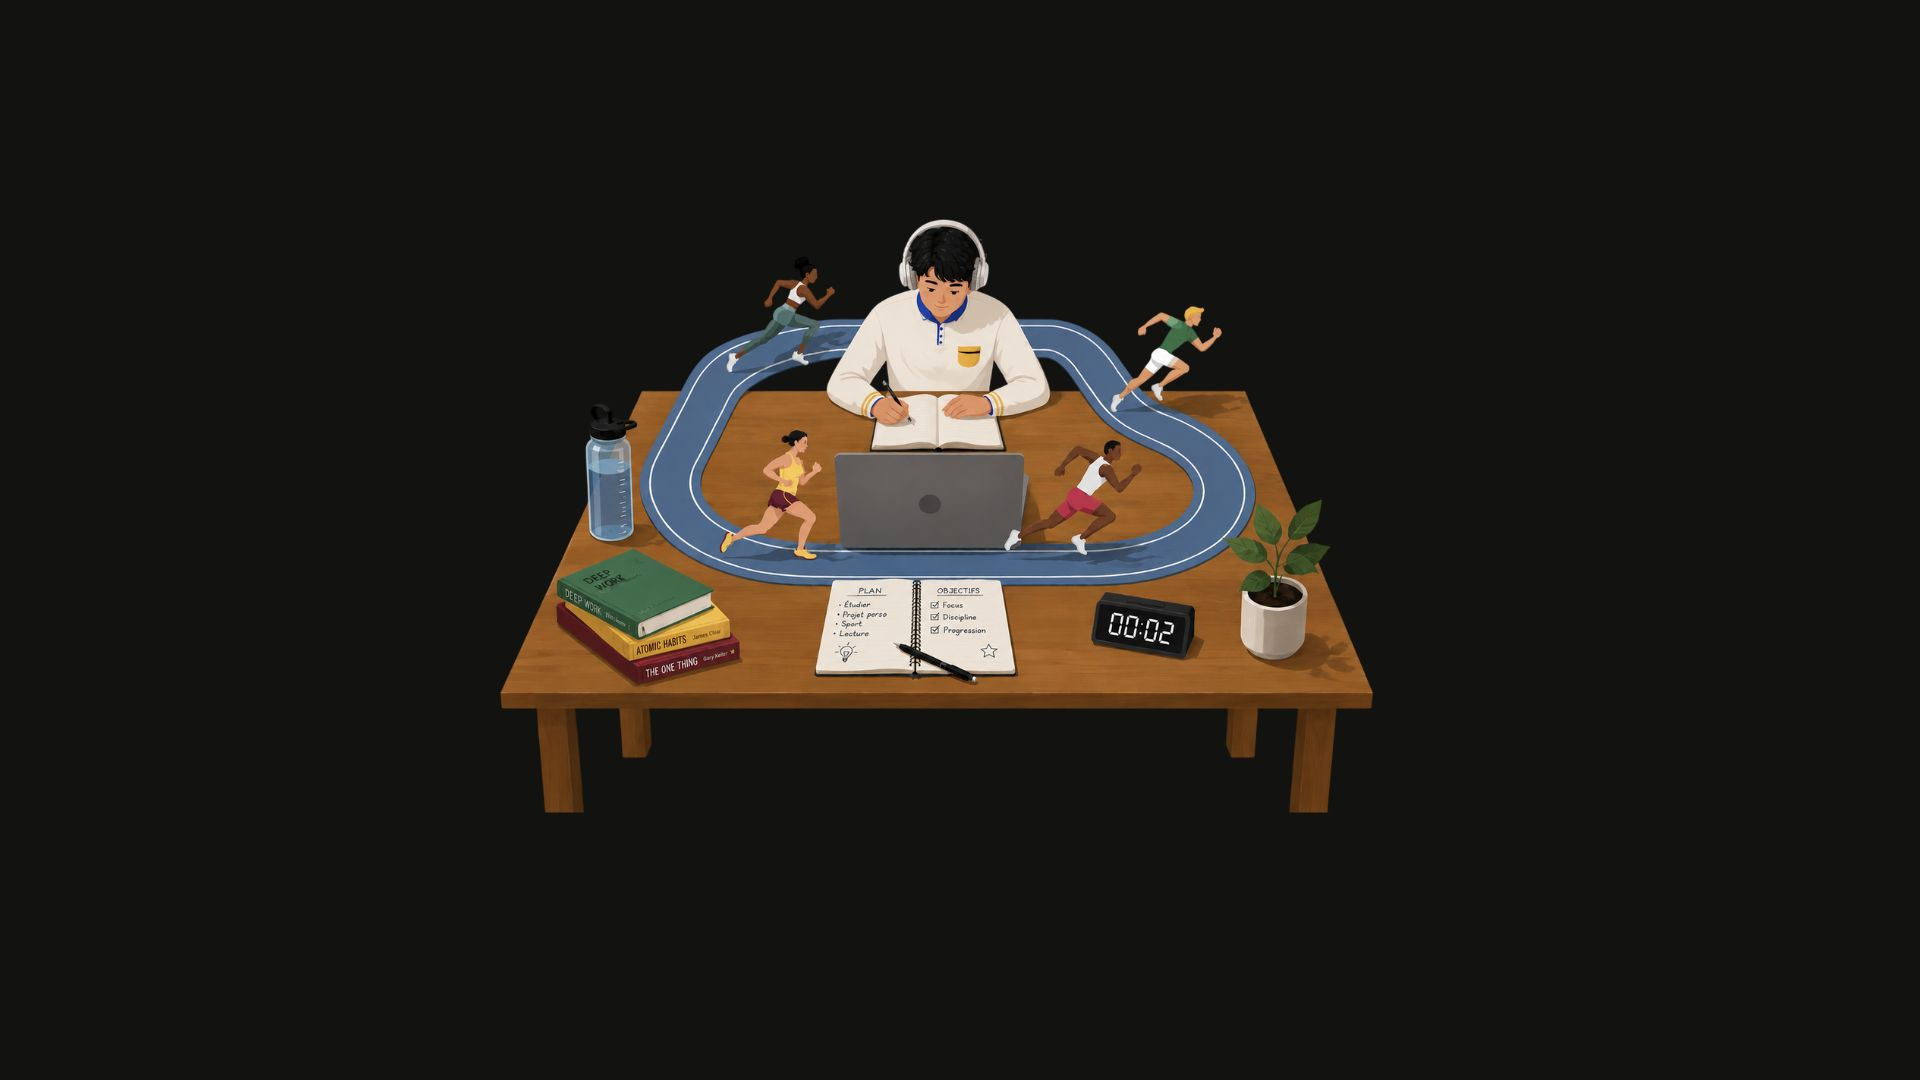
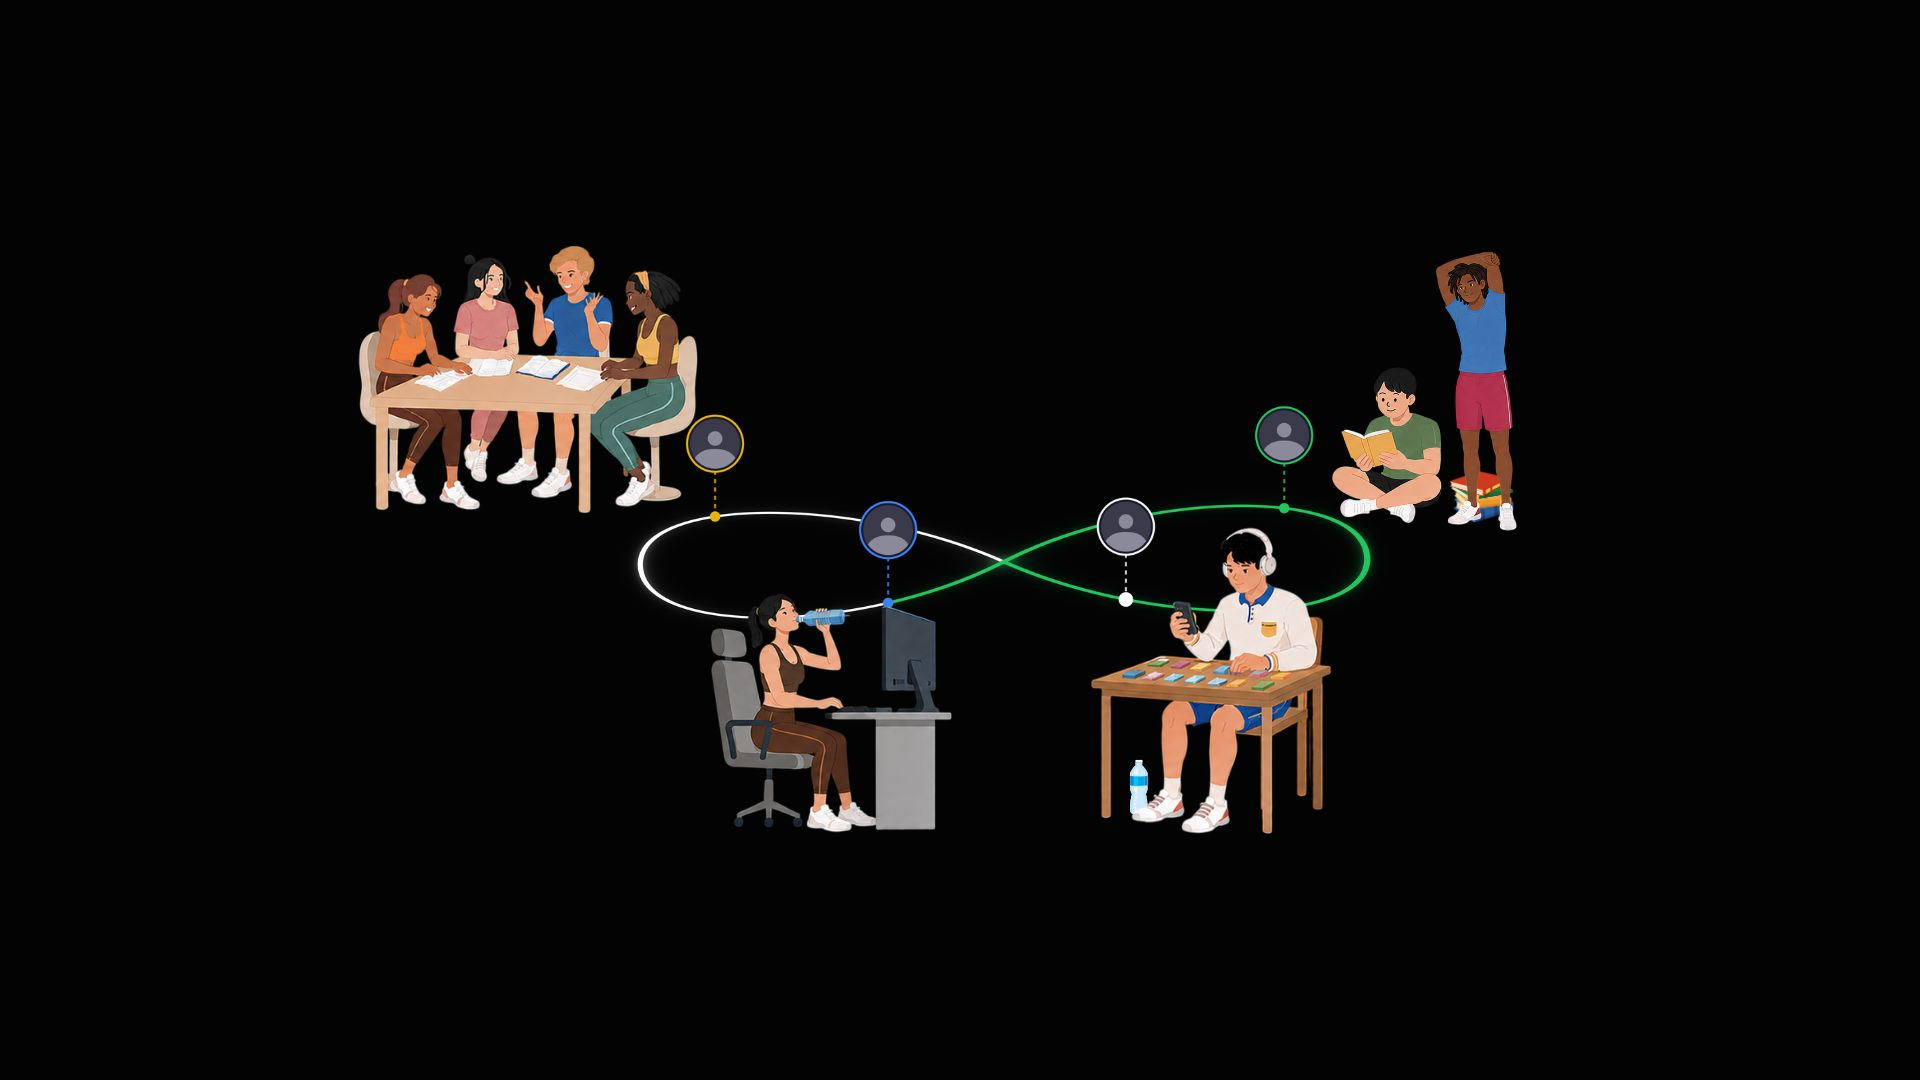
refonte page d'acceuil

Changed region(s): [[0.1875, 0.1833, 0.8125, 0.7944]]

diff --git a/src/infinitloop.jsx b/src/infinitloop.jsx
@@ -24,7 +24,7 @@ function applyGroupTransform(x, y) {
   return { x: sx + CX, y: sy + CY };
 }
 
-const DURATION = 22000; // durée d'un tour complet (en millisecondes) - augmenté pour réduire la vitesse
+const DURATION = 35000; // durée d'un tour complet (en millisecondes) - augmenté pour réduire la vitesse
 const PERP_LENGTH = 70; // longueur de la ligne perpendiculaire
 const AVATAR_RADIUS = 24;
 
@@ -38,12 +38,14 @@ const POINTS = [
   { id: "p3", color: "#eab308", phase: 0.75, isPlayer: false },
 ];
 
-export default function InfiniteLoopAnimation({ enMarche, photoProfil, dureeTotale = 1500, phase = 'travail', resetKey = 0, secondesRestantes = 0 }) {
+export default function InfiniteLoopAnimation({ enMarche, photoProfil, dureeTotale = 1500, phase = 'travail', resetKey = 0, secondesRestantes = 0, variante = 'pomodoro', pointsPersonnalises }) {
   const pathRef = useRef(null);
   const [animState, setAnimState] = useState({ pointsState: null, progress: 0, totalLength: 0 });
   const accumulatedTimeRef = useRef(0);
   const lastTimestampRef = useRef(null);
   const enMarcheRef = useRef(enMarche);
+  
+  const POINTS_ACTIFS = pointsPersonnalises || POINTS;
 
   useEffect(() => {
     enMarcheRef.current = enMarche;
@@ -71,7 +73,7 @@ export default function InfiniteLoopAnimation({ enMarche, photoProfil, dureeTota
       const safeDuree = dureeTotale > 0 ? dureeTotale : 1;
       const fillProgress = Math.min(accumulatedTimeRef.current / (safeDuree * 1000), 1);
 
-      const results = POINTS.map((cfg) => {
+      const results = POINTS_ACTIFS.map((cfg) => {
         const pointProgress = (((accumulatedTimeRef.current / DURATION) + cfg.phase) % 1 + 1) % 1;
         const dist = pointProgress * totalLength;
 
@@ -92,6 +94,7 @@ export default function InfiniteLoopAnimation({ enMarche, photoProfil, dureeTota
           id: cfg.id,
           color: cfg.color,
           isPlayer: cfg.isPlayer,
+          avatar: cfg.avatar,
           point: pointScreen,
           perpEnd: perpEndScreen,
         };
@@ -163,37 +166,41 @@ export default function InfiniteLoopAnimation({ enMarche, photoProfil, dureeTota
           )}
         </g>
 
-        {/* Textes intégrés aux boucles */}
-        {/* Boucle gauche : Phase (Travail / Pause) */}
-        <foreignObject x="125" y="170" width="200" height="60">
-          <div style={{ display: 'flex', alignItems: 'center', justifyContent: 'center', gap: '8px', width: '100%', height: '100%', color: '#FFFFFF', fontSize: '24px', fontFamily: "'Space Grotesk', sans-serif", fontWeight: 'bold', opacity: 0.9 }}>
-            {phase === 'travail' ? (
-              <>
-                <svg xmlns="http://www.w3.org/2000/svg" width="28" height="28" fill="currentColor" viewBox="0 0 256 256">
-                  <path d="M152,88a32,32,0,1,0-32-32A32,32,0,0,0,152,88Zm0-48a16,16,0,1,1-16,16A16,16,0,0,1,152,40Zm67.31,100.68c-.61.28-7.49,3.28-19.67,3.28-13.85,0-34.55-3.88-60.69-20a169.31,169.31,0,0,1-15.41,32.34,104.29,104.29,0,0,1,31.31,15.81C173.92,186.65,184,207.35,184,232a8,8,0,0,1-16,0c0-41.7-34.69-56.71-54.14-61.85-.55.7-1.12,1.41-1.69,2.1-19.64,23.8-44.25,36.18-71.63,36.18A92.29,92.29,0,0,1,31.2,208,8,8,0,0,1,32.8,192c25.92,2.58,48.47-7.49,67-30,12.49-15.14,21-33.61,25.25-47C86.13,92.35,61.27,111.63,61,111.84A8,8,0,1,1,51,99.36c1.5-1.2,37.22-29,89.51,6.57,45.47,30.91,71.93,20.31,72.18,20.19a8,8,0,1,1,6.63,14.56Z"></path>
-                </svg>
-                Travail
-              </>
-            ) : (
-              '☕ Pause'
-            )}
-          </div>
-        </foreignObject>
+        {/* Textes intégrés aux boucles (uniquement pour le mode Pomodoro) */}
+        {variante === 'pomodoro' && (
+          <>
+            {/* Boucle gauche : Phase (Travail / Pause) */}
+            <foreignObject x="125" y="170" width="200" height="60">
+              <div style={{ display: 'flex', alignItems: 'center', justifyContent: 'center', gap: '8px', width: '100%', height: '100%', color: '#FFFFFF', fontSize: '24px', fontFamily: "'Space Grotesk', sans-serif", fontWeight: 'bold', opacity: 0.9 }}>
+                {phase === 'travail' ? (
+                  <>
+                    <svg xmlns="http://www.w3.org/2000/svg" width="28" height="28" fill="currentColor" viewBox="0 0 256 256">
+                      <path d="M152,88a32,32,0,1,0-32-32A32,32,0,0,0,152,88Zm0-48a16,16,0,1,1-16,16A16,16,0,0,1,152,40Zm67.31,100.68c-.61.28-7.49,3.28-19.67,3.28-13.85,0-34.55-3.88-60.69-20a169.31,169.31,0,0,1-15.41,32.34,104.29,104.29,0,0,1,31.31,15.81C173.92,186.65,184,207.35,184,232a8,8,0,0,1-16,0c0-41.7-34.69-56.71-54.14-61.85-.55.7-1.12,1.41-1.69,2.1-19.64,23.8-44.25,36.18-71.63,36.18A92.29,92.29,0,0,1,31.2,208,8,8,0,0,1,32.8,192c25.92,2.58,48.47-7.49,67-30,12.49-15.14,21-33.61,25.25-47C86.13,92.35,61.27,111.63,61,111.84A8,8,0,1,1,51,99.36c1.5-1.2,37.22-29,89.51,6.57,45.47,30.91,71.93,20.31,72.18,20.19a8,8,0,1,1,6.63,14.56Z"></path>
+                    </svg>
+                    Travail
+                  </>
+                ) : (
+                  '☕ Pause'
+                )}
+              </div>
+            </foreignObject>
 
-        {/* Boucle droite : Chronomètre (secondesRestantes) */}
-        <text 
-          x="575" 
-          y="200" 
-          fill="#FFFFFF" 
-          fontSize="36" 
-          fontFamily="'Space Grotesk', sans-serif" 
-          fontWeight="bold" 
-          textAnchor="middle" 
-          dominantBaseline="middle"
-          opacity="0.9"
-        >
-          {Math.floor(secondesRestantes / 60).toString().padStart(2, '0')}:{(secondesRestantes % 60).toString().padStart(2, '0')}
-        </text>
+            {/* Boucle droite : Chronomètre (secondesRestantes) */}
+            <text 
+              x="575" 
+              y="200" 
+              fill="#FFFFFF" 
+              fontSize="36" 
+              fontFamily="'Space Grotesk', sans-serif" 
+              fontWeight="bold" 
+              textAnchor="middle" 
+              dominantBaseline="middle"
+              opacity="0.9"
+            >
+              {Math.floor(secondesRestantes / 60).toString().padStart(2, '0')}:{(secondesRestantes % 60).toString().padStart(2, '0')}
+            </text>
+          </>
+        )}
 
         {/* Points, lignes perpendiculaires et avatars — dessinés hors du <g>
             car les coordonnées écran sont déjà calculées via applyGroupTransform */}
@@ -231,16 +238,16 @@ export default function InfiniteLoopAnimation({ enMarche, photoProfil, dureeTota
                 />
                 <g clipPath="url(#avatarClip)">
                   <circle r={AVATAR_RADIUS} fill="#3a3a4a" />
-                  {pt.isPlayer && photoProfil?.dataUrl ? (
+                  {((pt.isPlayer && photoProfil?.dataUrl) || pt.avatar) ? (
                     <foreignObject x={-AVATAR_RADIUS} y={-AVATAR_RADIUS} width={AVATAR_RADIUS * 2} height={AVATAR_RADIUS * 2}>
                       <img
-                        src={photoProfil.dataUrl}
+                        src={pt.avatar ? pt.avatar : photoProfil.dataUrl}
                         alt="Avatar"
                         style={{
                           width: '100%',
                           height: '100%',
                           objectFit: 'cover',
-                          objectPosition: `${photoProfil.position?.x ?? 50}% ${photoProfil.position?.y ?? 50}%`,
+                          objectPosition: pt.avatar ? 'center' : `${photoProfil.position?.x ?? 50}% ${photoProfil.position?.y ?? 50}%`,
                           borderRadius: '50%'
                         }}
                       />

diff --git a/src/App.jsx b/src/App.jsx
@@ -1,6 +1,6 @@
 import { useState, useEffect, useRef } from 'react'
 import { createPortal } from 'react-dom'
-import { Play, Pause, SquarePen, Gift, Headphones, Pin } from 'lucide-react'
+import { Play, Pause, SquarePen, Gift, Headphones, Pin, Clock9 } from 'lucide-react'
 import FullCalendar from '@fullcalendar/react'
 import dayGridPlugin from '@fullcalendar/daygrid'
 import interactionPlugin from '@fullcalendar/interaction'
@@ -157,35 +157,108 @@ function Accueil({ onCommencer }) {
       texte: 'Débloquez des médaillons en accomplissant vos sessions, complétez votre collection et échangez-les avec d\'autres utilisateurs pour enrichir votre profil.',
     },
     {
+      id: 'planification',
+      titre: 'Organiser et planifier votre travail',
+      texte: 'Profitez d\'un système de notes intelligentes permettant d\'organiser vos tâches, de les programmer pour maintenant ou pour plus tard, et bénéficiez d\'un système de rappel efficace via des notifications.',
+    },
+    {
       id: 'statistiques',
       titre: 'Trackez vos statistiques avec des outils adaptés',
       texte: 'Visualisez votre temps de concentration, vos séries de Pomodoro et votre progression grâce à des graphiques clairs et des outils de suivi pensés pour vous.',
     },
   ];
 
+  const POINTS_HOME = [
+    { id: "p1", color: "#22c55e", phase: 0.0 },
+    { id: "p2", color: "#3b82f6", phase: 0.2 },
+    { id: "p3", color: "#eab308", phase: 0.4 },
+    { id: "p4", color: "#ec4899", phase: 0.6 },
+    { id: "p6", color: "#a855f7", phase: 0.8 },
+  ];
+
+  const handleScrollLent = () => {
+    const target = document.getElementById('presentation');
+    if (!target) return;
+    
+    const targetPosition = target.getBoundingClientRect().top + window.scrollY;
+    const startPosition = window.scrollY;
+    const distance = targetPosition - startPosition;
+    let startTime = null;
+    
+    // Durée du défilement : 2 secondes pour que ce soit lent
+    const duration = 2000; 
+
+    // Fonction d'easing (ease-in-out) pour un mouvement très doux
+    const ease = (t, b, c, d) => {
+      t /= d / 2;
+      if (t < 1) return (c / 2) * t * t + b;
+      t--;
+      return (-c / 2) * (t * (t - 2) - 1) + b;
+    };
+
+    const animation = (currentTime) => {
+      if (startTime === null) startTime = currentTime;
+      const timeElapsed = currentTime - startTime;
+      const run = ease(timeElapsed, startPosition, distance, duration);
+      window.scrollTo(0, run);
+      if (timeElapsed < duration) {
+        requestAnimationFrame(animation);
+      }
+    };
+
+    requestAnimationFrame(animation);
+  };
+
   return (
     <div className="accueil">
       <div className="accueil_fond">
+        <img 
+          src="/logop.svg" 
+          alt="Logo" 
+          className="accueil_logo" 
+          onClick={handleScrollLent}
+          style={{ cursor: 'pointer' }}
+        />
+        <h1 className="accueil_titre_principal" style={{ display: 'flex', alignItems: 'center', gap: '16px' }}>
+          pomodoro timer and more <Clock9 size={48} strokeWidth={2.5} />
+        </h1>
+        <div className="accueil_animation_container">
+          <img src="/p1.png" alt="" className="accueil_personnage p_un" />
+          <img src="/p2.png" alt="" className="accueil_personnage p_deux" />
+          <img src="/p3.png" alt="" className="accueil_personnage p_trois" />
+          <img src="/p4.png" alt="" className="accueil_personnage p_quatre" />
+          <img src="/p6.png" alt="" className="accueil_personnage p_cinq" />
+          <InfiniteLoopAnimation 
+            enMarche={true} 
+            variante="home" 
+            pointsPersonnalises={POINTS_HOME} 
+          />
+        </div>
         <button
           type="button"
           className="btn_primaire accueil_btn_commencer"
           onClick={onCommencer}
         >
-          Commencer à travailler
+          run rest and repeat
         </button>
       </div>
 
       {/* --- Seconde partie de la vitrine : accessible par défilement naturel --- */}
       <div className="accueil_suite">
 
-        <section className="accueil_presentation">
-          <h2 className="accueil_presentation_titre">Qu'est-ce que la méthode Pomodoro ?</h2>
+        <section id="presentation" className="accueil_presentation">
+          <h2 className="accueil_presentation_titre">Run, rest and repeat</h2>
           <p className="accueil_presentation_texte">
             La méthode Pomodoro consiste à alterner des périodes de travail
             concentré, généralement de 25 minutes, avec de courtes pauses
-            régulières. Ce rythme aide à maintenir un haut niveau de
-            concentration, réduit la fatigue mentale et améliore la
-            productivité en structurant naturellement la gestion du temps.
+            régulières. Tout comme dans la course à pied, le secret réside dans le 
+            fractionné : il s'agit de fournir un effort intense sur une période de 
+            temps définie, puis de prendre un temps de repos pour s'hydrater et 
+            souffler. Que ce soit sur une piste ou devant un écran, courir ou 
+            travailler à plusieurs permet de se motiver mutuellement. La 
+            persévérance est la clé pour aller infiniment plus loin. Le but de 
+            cette application est de vous accompagner dans cet effort, de vous aider 
+            à repousser vos limites et à atteindre tous vos objectifs.
           </p>
         </section>
 

diff --git a/src/App.css b/src/App.css
@@ -1,4 +1,4 @@
-@import url('https://fonts.googleapis.com/css2?family=Space+Grotesk:wght@500;600;700&family=Inter:wght@400;500;600;700&display=swap');
+@import url('https://fonts.googleapis.com/css2?family=DM+Sans:wght@400;500;700&family=Space+Grotesk:wght@500;600;700&family=Inter:wght@400;500;600;700&display=swap');
 
 :root {
   --radius-lg: 28px;
@@ -4151,10 +4151,99 @@ body,
 }
 
 .accueil_fond {
-  background-image: url('/runtostudybg.jpg');
-  background-size: cover;
-  background-position: center;
-  background-repeat: no-repeat;
+  position: relative;
+  display: flex;
+  align-items: center;
+  justify-content: center;
+  min-height: 100vh;
+  overflow: hidden;
+  background-color: #000000;
+}
+
+.accueil_animation_container {
+  position: absolute;
+  top: 0;
+  left: 0;
+  width: 100%;
+  height: 100%;
+  display: flex;
+  align-items: center;
+  justify-content: center;
+  z-index: 1;
+}
+
+.accueil_btn_commencer {
+  position: absolute;
+  bottom: 100px;
+  z-index: 10;
+  background: #22c55e; /* Vert */
+  color: #ffffff;
+}
+
+.accueil_btn_commencer:hover {
+  background: #16a34a;
+}
+
+.accueil_logo {
+  position: absolute;
+  top: 10px;
+  left: 32px;
+  width: 170px;
+  height: auto;
+  z-index: 10;
+}
+
+.accueil_titre_principal {
+  position: absolute;
+  top: 120px;
+  left: 50%;
+  transform: translateX(-50%);
+  color: #ffffff;
+  font-family: 'DM Sans', sans-serif;
+  font-size: 3rem;
+  font-weight: 700;
+  text-align: center;
+  z-index: 10;
+  letter-spacing: 2px;
+  text-transform: lowercase;
+  text-shadow: 0 4px 24px rgba(255, 255, 255, 0.2);
+}
+
+.accueil_personnage {
+  position: absolute;
+  width: 750px; /* Agrandissement 500% */
+  height: auto;
+  z-index: 2;
+  filter: drop-shadow(0 10px 15px rgba(0,0,0,0.15));
+  transform: translate(-50%, -50%); /* Centre l'image exactement sur les coordonnées */
+}
+
+/* Positionnement par rapport au centre de l'écran et de la boucle */
+.p_un {
+  top: calc(50% - 100px);
+  left: calc(50% - 400px);
+}
+
+.p_deux {
+  top: calc(50% + 120px);
+  left: calc(50% - 350px);
+}
+
+.p_trois {
+  top: calc(50% - 80px);
+  left: calc(50% + 400px);
+}
+
+.p_quatre {
+  top: calc(50% + 120px);
+  left: calc(50% + 360px);
+  width: 675px;
+}
+
+.p_cinq {
+  top: calc(50% + 120px);
+  left: calc(50% + 500px);
+  width: 675px;
 }
 
 .accueil_suite {
@@ -4165,7 +4254,7 @@ body,
 }
 
 .accueil_presentation {
-  max-width: 700px;
+  max-width: 1100px;
   margin: 0 auto;
   text-align: center;
 }
@@ -4182,9 +4271,9 @@ body,
 
 .accueil_fonctionnalites_grille {
   display: grid;
-  grid-template-columns: repeat(auto-fit, minmax(240px, 1fr));
+  grid-template-columns: repeat(5, 1fr);
   gap: 24px;
-  max-width: 1100px;
+  max-width: 1400px;
   margin: 0 auto;
   width: 100%;
 }
